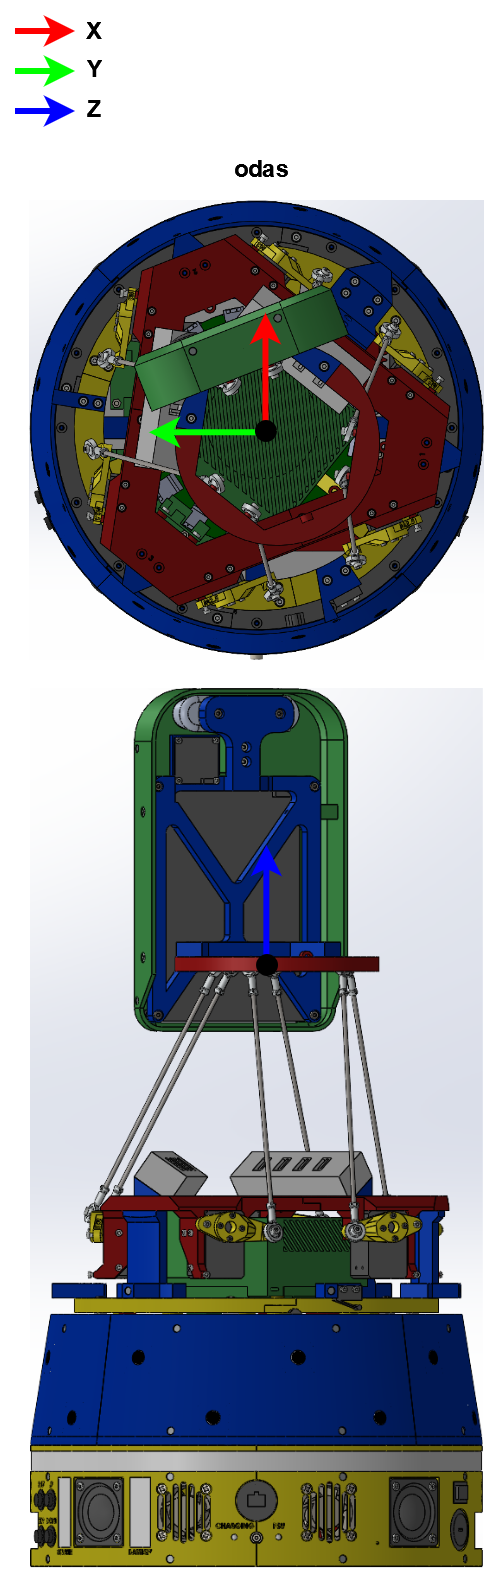
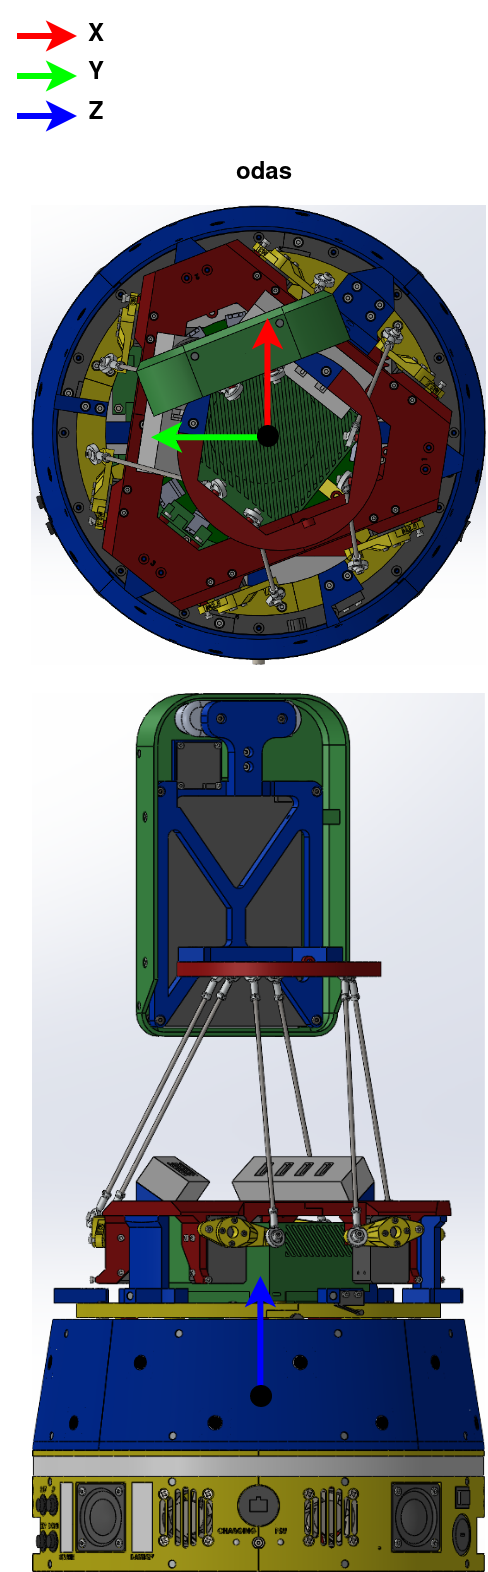
Set the odas frame in the midlle of the mics.

diff --git a/tools/odas_configuration_generator/odas_microphone_configuration.py b/tools/odas_configuration_generator/odas_microphone_configuration.py
@@ -18,8 +18,7 @@ BOTTOM_MICROPHONE_WALL_HEIGHT = 0.01862439578
 TOP_MICROPHONE_WALL_HEIGHT = 0.0599928907
 MIDDLE_HEIGHT = (BOTTOM_MICROPHONE_WALL_HEIGHT + TOP_MICROPHONE_WALL_HEIGHT) / 2
 
-# Allow to specify the height of the desired odas frame relative to the robot base, or use the default value (classic T-Top)
-Z_OFFSET = (MIDDLE_HEIGHT + float(argv[1])) if len(argv) >= 2 else -0.30753835046
+Z_OFFSET = -MIDDLE_HEIGHT * math.sin(WALL_ANGLE)
 
 
 #Position and direction calculation
@@ -89,9 +88,9 @@ ax.set_zlabel('Z (m)')
 ax.mouse_init()
 
 axis_length = BOTTOM_RADIUS / 2
-ax.plot([0, axis_length], [0, 0], [Z_OFFSET, Z_OFFSET], color='red')
-ax.plot([0, 0], [0, axis_length], [Z_OFFSET, Z_OFFSET], color='green')
-ax.plot([0, 0], [0, 0], [Z_OFFSET, Z_OFFSET + axis_length], color='blue')
+ax.plot([0, axis_length], [0, 0], [0, 0], color='red')
+ax.plot([0, 0], [0, axis_length], [0, 0], color='green')
+ax.plot([0, 0], [0, 0], [0, axis_length], color='blue')
 
 direction_length = BOTTOM_RADIUS / 4
 for i in range(MICROPHONE_COUNT):
